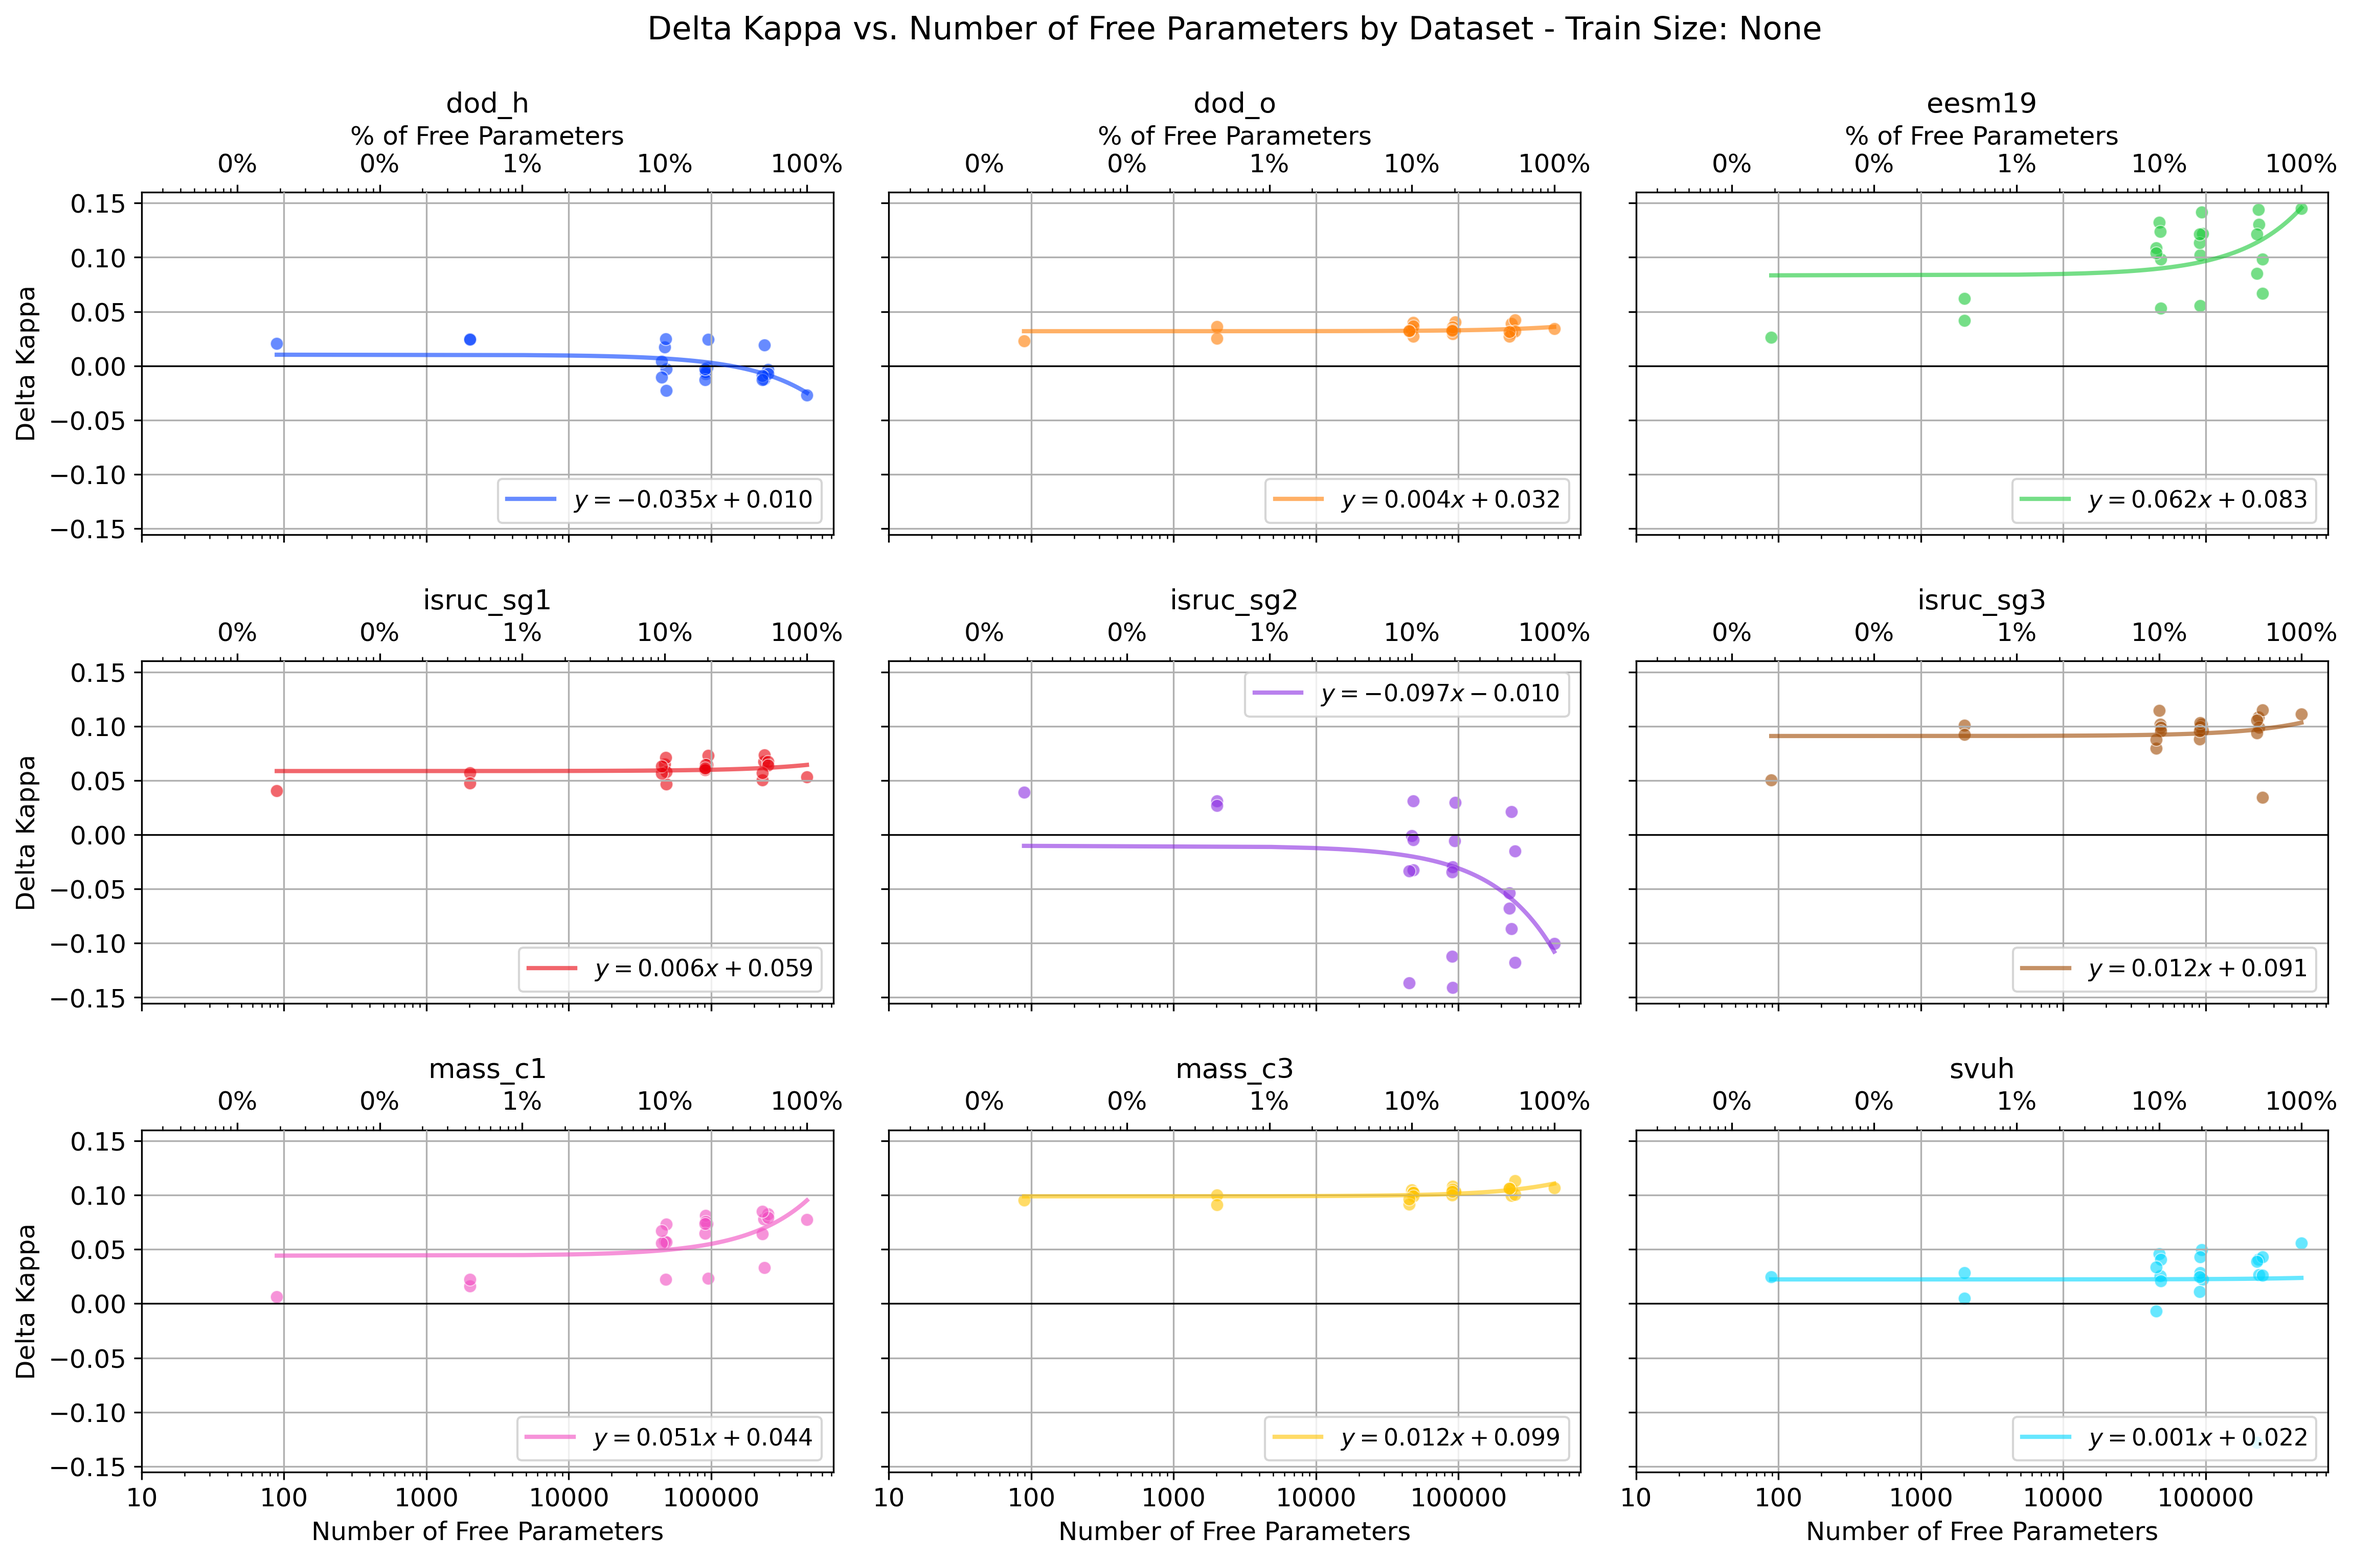
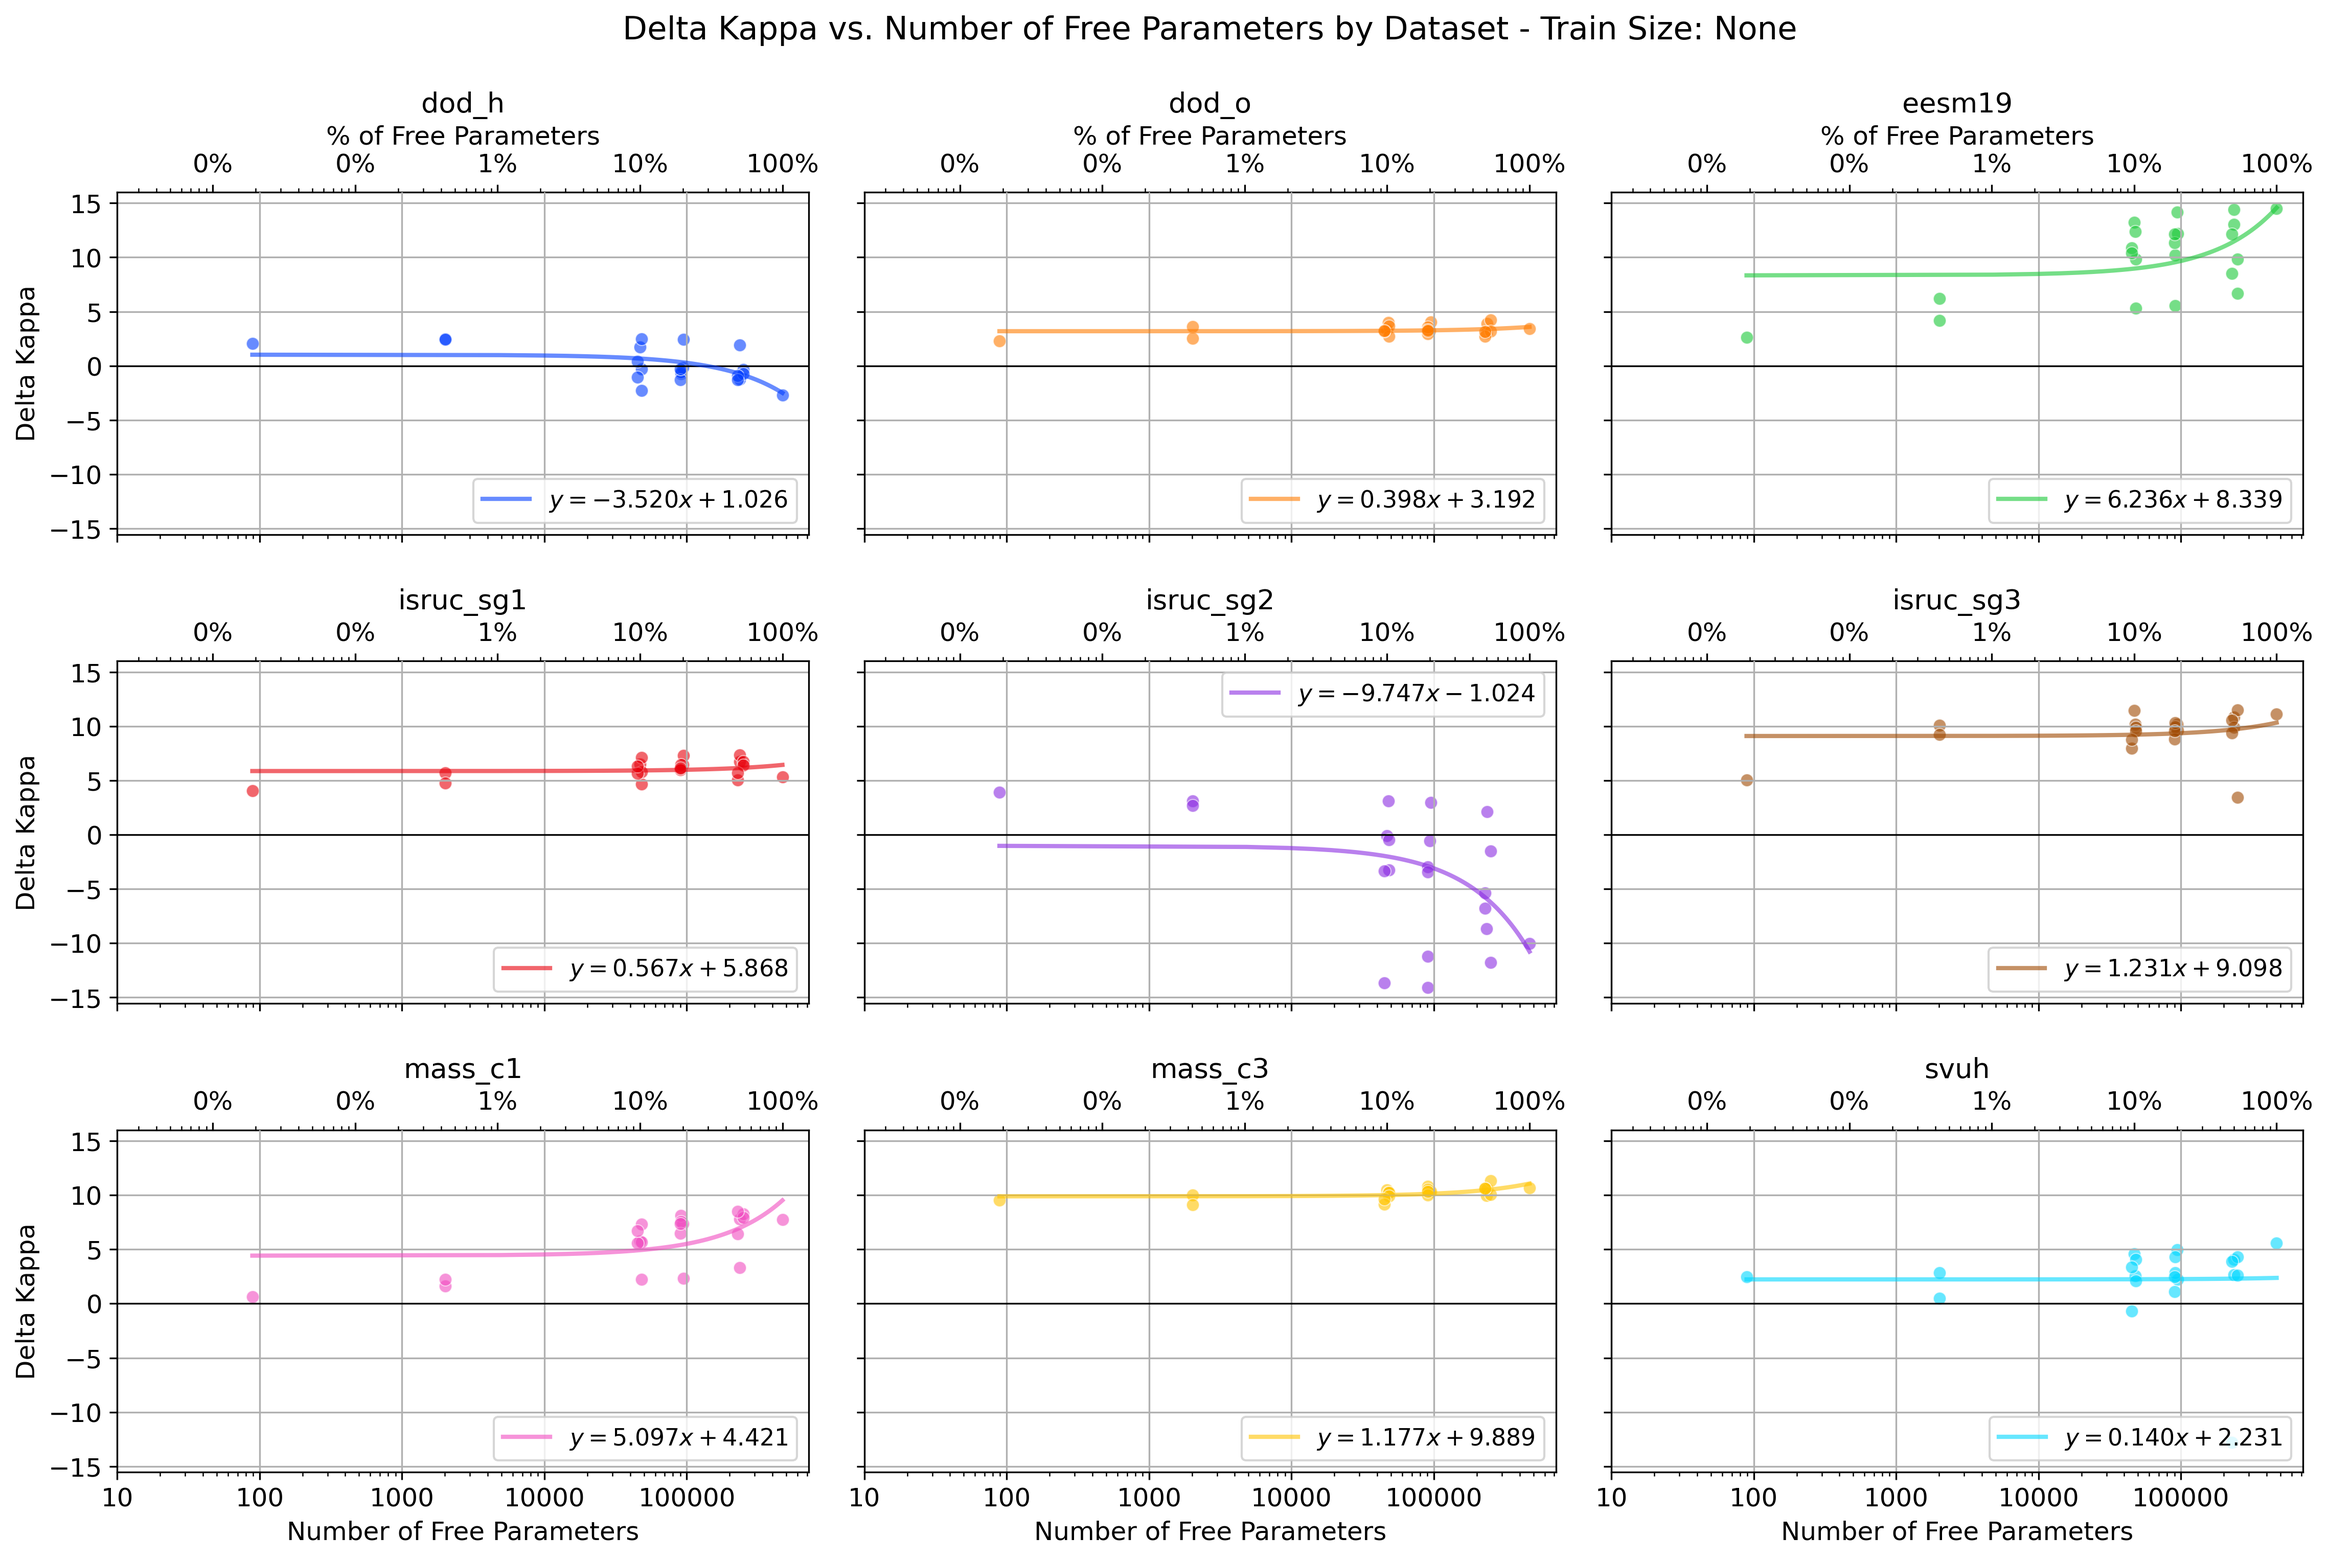
scaled kappa with 100

diff --git a/src/plot/delta_kappa_vs_parameters.py b/src/plot/delta_kappa_vs_parameters.py
@@ -18,7 +18,8 @@ from src.utils.neptune_api.method_data import (
 
 def plot_delta_kappa_vs_parameters() -> None:
     data = _get_delta_kappa_data()
-    full_train_size = data.sort("train_size").unique(
+    data = data.with_columns(pl.col("delta_kappa") * 100, pl.col("kappa") * 100)
+    full_train_size = data.sort("dataset", "method", "train_size").unique(
         ["dataset", "method"], keep="last", maintain_order=True
     )
 
@@ -50,9 +51,6 @@ def _get_delta_kappa_data() -> pl.DataFrame:
 
     dfs = []
     for method_data in raw_data:
-        # if method_data.train_size is not None:
-        #     continue
-
         test = extract_performance(method_data, "new").drop("accuracy", "loss", "f1")
         base = extract_performance(method_data, "org").drop("accuracy", "loss", "f1")
 
@@ -235,7 +233,7 @@ def _plot_delta_kappe_vs_parameters_separate_datasets(
         x_fit = np.linspace(x.min(), x.max(), 100)
         y_fit = intercept + slope * (x_fit)
         add = "-" if intercept < 0 else "+"  # type: ignore
-        label = rf"$y = {slope * x.max():.3f}x {add} {abs(intercept):.3f}$"
+        label = rf"$y = {slope * x.max():.3f}x {add} {abs(intercept):.3f}$"  # type: ignore
         ax.plot(x_fit, y_fit, color=(*color, 0.6), label=label, linewidth=2)
         location = "upper right" if i in [4] else "lower right"
         ax.legend(loc=location, fontsize=11, frameon=True)
